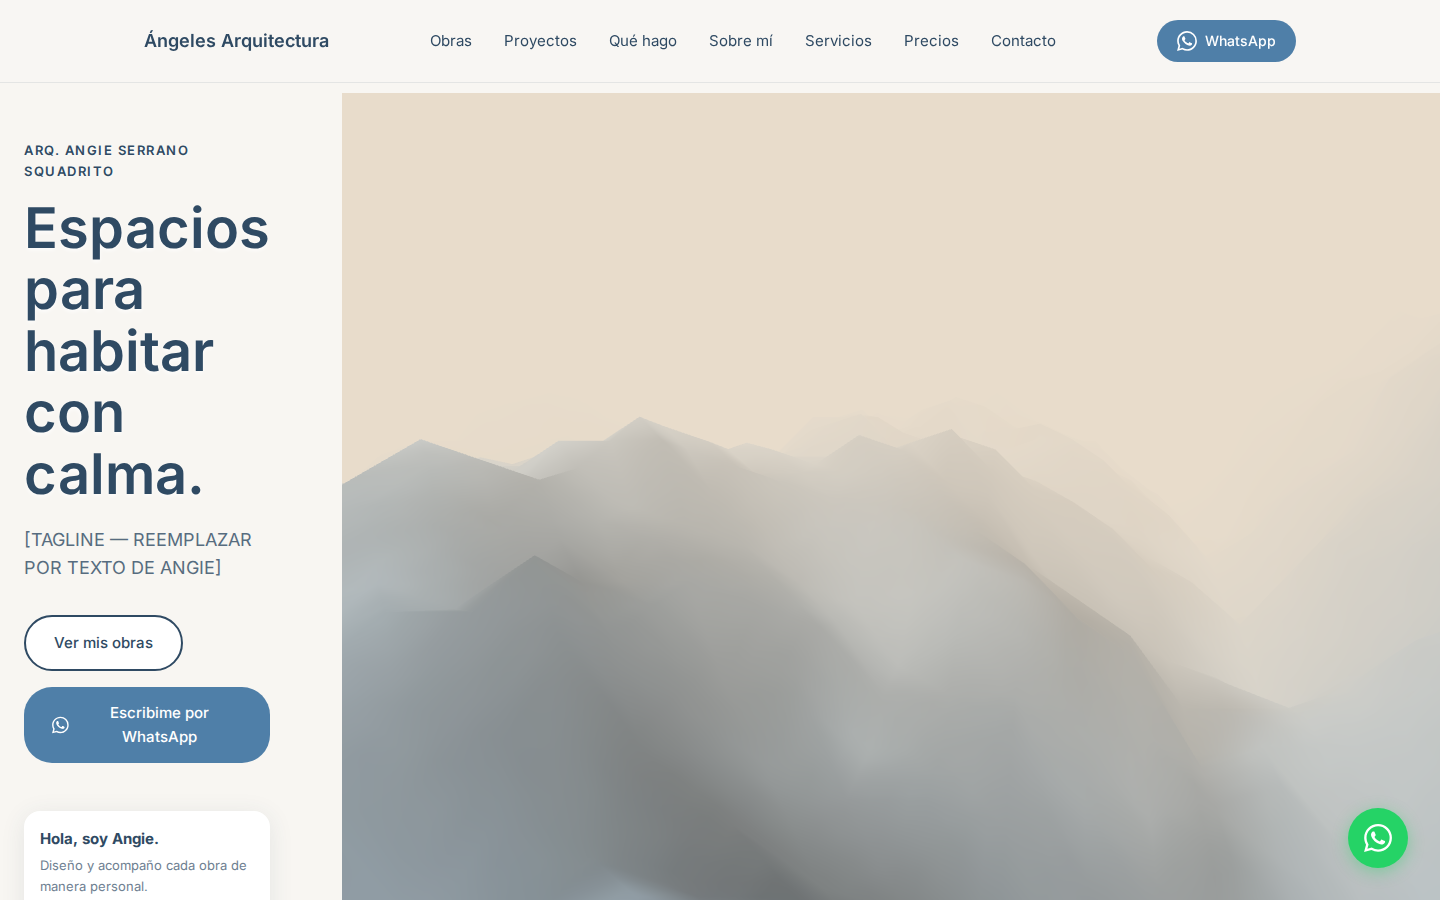
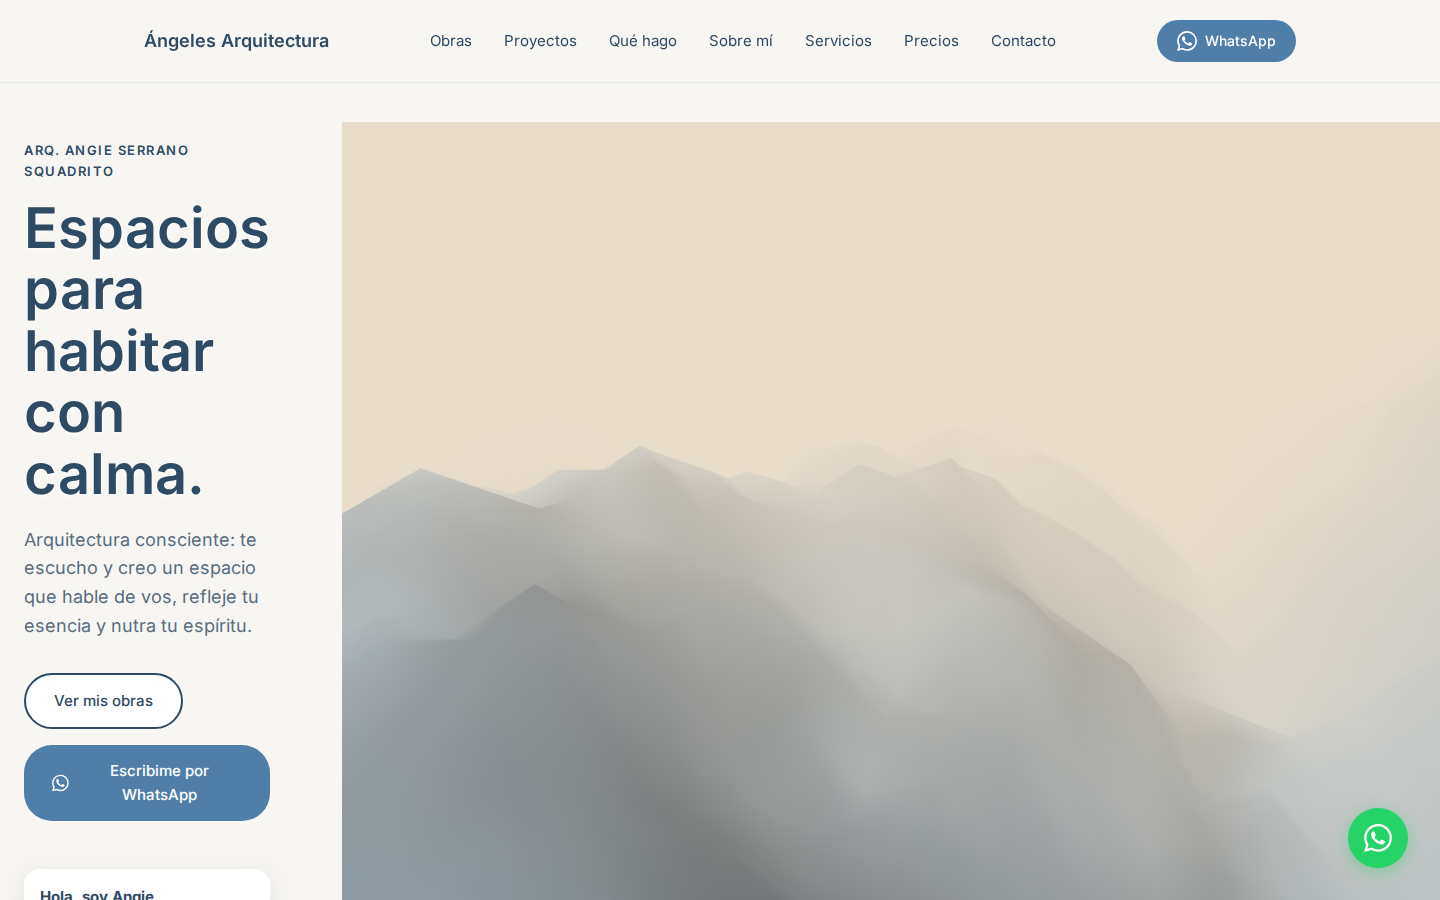
fix: Make terrain sky visible with proper exposure and brand colors (same as sky)

diff --git a/hero-sky.js b/hero-sky.js
@@ -36,6 +36,7 @@ function init() {
 
     // Scene
     scene = new THREE.Scene();
+    scene.background = new THREE.Color(0x7FA7C9); // Soft blue from brand palette
 
     // Renderer
     renderer = new THREE.WebGLRenderer({ 
@@ -45,7 +46,7 @@ function init() {
     renderer.setPixelRatio(Math.min(window.devicePixelRatio, 2));
     renderer.setSize(width, height);
     renderer.toneMapping = THREE.ACESFilmicToneMapping;
-    renderer.toneMappingExposure = 0.15; // Very soft exposure for text readability
+    renderer.toneMappingExposure = 1.0; // Full exposure for visibility
     container.appendChild(renderer.domElement);
 
     // Sky - Configured for Angie's brand palette
@@ -58,18 +59,14 @@ function init() {
     const skyUniforms = sky.material.uniforms;
     
     // Calm, architectural sky parameters matching brand palette
-    skyUniforms['turbidity'].value = 8;
-    skyUniforms['rayleigh'].value = 2; // Soft blue atmospheric scattering
-    skyUniforms['mieCoefficient'].value = 0.005;
-    skyUniforms['mieDirectionalG'].value = 0.7;
-    skyUniforms['cloudCoverage'].value = 0.3; // Light clouds
-    skyUniforms['cloudDensity'].value = 0.4;
-    skyUniforms['cloudElevation'].value = 0.5;
-    skyUniforms['showSunDisc'].value = true;
+    skyUniforms['turbidity'].value = 3; // Clearer sky
+    skyUniforms['rayleigh'].value = 1; // Visible blue atmospheric scattering
+    skyUniforms['mieCoefficient'].value = 0.01;
+    skyUniforms['mieDirectionalG'].value = 0.8;
 
-    // Low sun position for warm, calm light matching Angie's palette
-    const elevation = 20; // Low sun angle
-    const azimuth = 0;
+    // Sun position for calm, warm light matching Angie's palette
+    const elevation = 10; // Low sun for warm tones
+    const azimuth = 180;
     
     const phi = THREE.MathUtils.degToRad(90 - elevation);
     const theta = THREE.MathUtils.degToRad(azimuth);

diff --git a/test-hero-overlap.spec.js b/test-hero-overlap.spec.js
@@ -114,4 +114,39 @@ test.describe('Hero Overlap Prevention @ 1440x900', () => {
     // Check that hero content doesn't extend too far right (should leave room for canvas)
     expect(heroContentBox.right, 'Hero content should leave space for canvas on right').toBeLessThan(900);
   });
+
+  test('right half has canvas that is rendering', async ({ page }) => {
+    await page.goto(BASE_URL);
+    
+    await page.waitForLoadState('networkidle');
+    await page.waitForTimeout(3000); // Wait for 3D to render
+    
+    // Verify canvas exists and is properly sized/visible
+    const canvasInfo = await page.evaluate(() => {
+      const canvas = document.querySelector('.hero-canvas-container canvas') || 
+                    document.querySelector('.hero canvas') ||
+                    document.querySelector('canvas');
+      
+      if (!canvas) return { found: false };
+      
+      const rect = canvas.getBoundingClientRect();
+      const computed = window.getComputedStyle(canvas);
+      
+      return {
+        found: true,
+        width: canvas.width,
+        height: canvas.height,
+        displayWidth: rect.width,
+        displayHeight: rect.height,
+        visible: computed.display !== 'none' && computed.visibility !== 'hidden' && computed.opacity !== '0',
+        positioned: rect.x > 500 // Should be in right half
+      };
+    });
+    
+    expect(canvasInfo.found, 'Canvas element must exist').toBe(true);
+    expect(canvasInfo.width, 'Canvas must have width > 0').toBeGreaterThan(0);
+    expect(canvasInfo.height, 'Canvas must have height > 0').toBeGreaterThan(0);
+    expect(canvasInfo.visible, 'Canvas must be visible').toBe(true);
+    expect(canvasInfo.positioned, 'Canvas should be in right half of viewport').toBe(true);
+  });
 });

diff --git a/index.html b/index.html
@@ -62,7 +62,7 @@
             <div class="hero-content">
                 <p class="hero-subtitle">ARQ. ANGIE SERRANO SQUADRITO</p>
                 <h1 class="hero-title">Espacios para habitar con calma.</h1>
-                <p class="hero-tagline">[TAGLINE — REEMPLAZAR POR TEXTO DE ANGIE]</p>
+                <p class="hero-tagline">Arquitectura consciente: te escucho y creo un espacio que hable de vos, refleje tu esencia y nutra tu espíritu.</p>
                 <div class="hero-buttons">
                     <a href="#obras" class="btn btn-secondary">Ver mis obras</a>
                     <a href="https://wa.me/542617685148?text=Hola%20Angie,%20me%20gustar%C3%ADa%20consultarte%20sobre" class="btn btn-primary" target="_blank" rel="noopener noreferrer">
